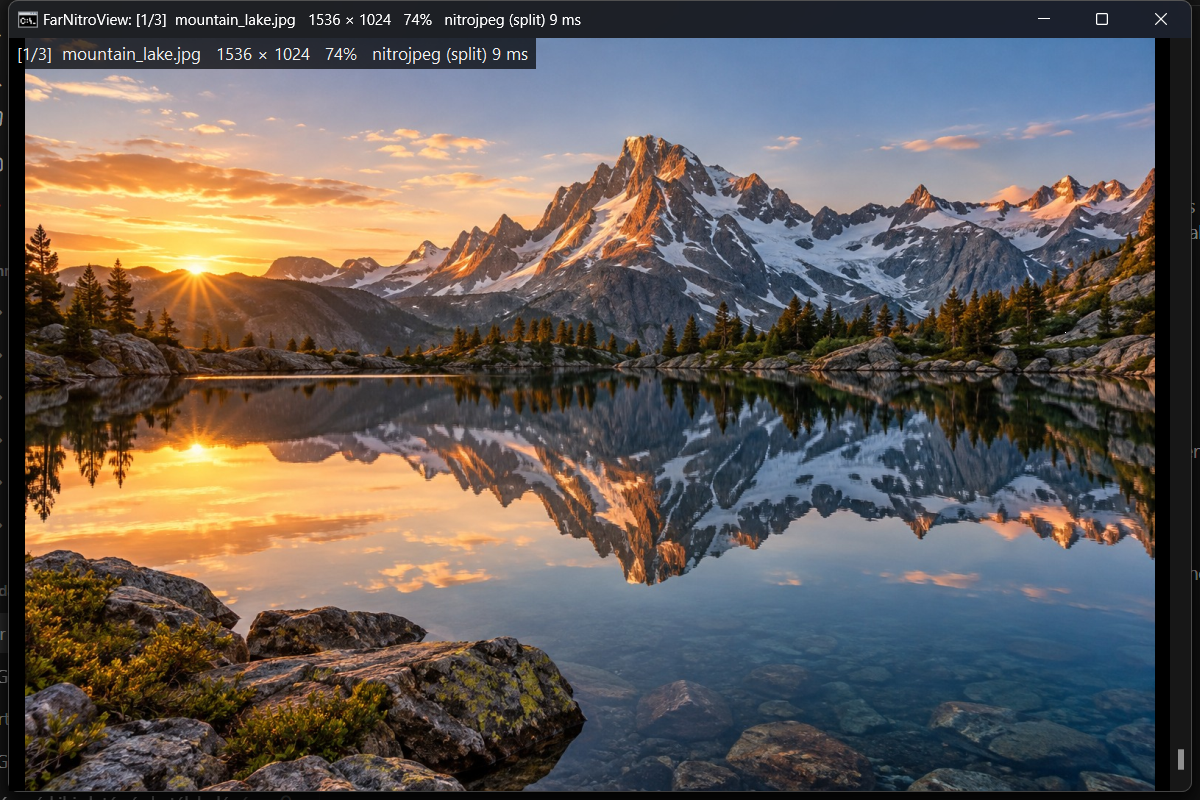
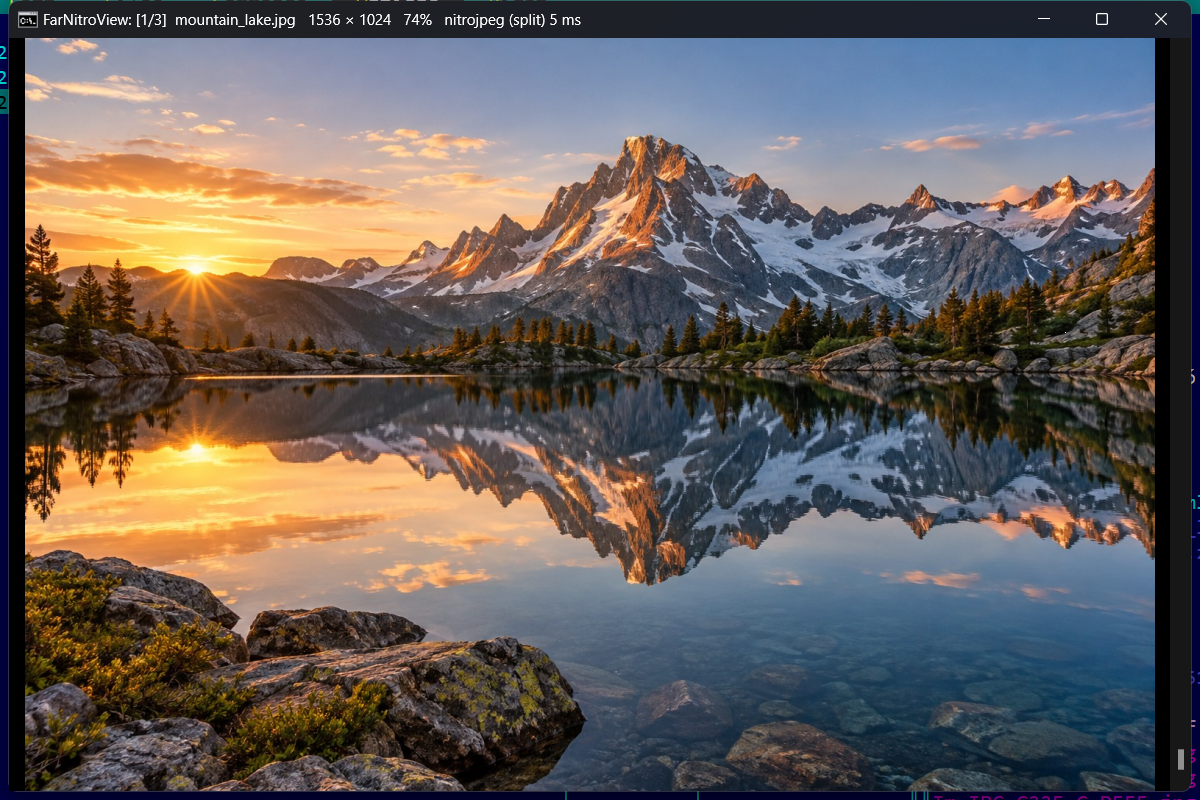
Information line over the image off by default
The console window title already shows file, position, size, zoom and
decoder. The setting is stored under a new name, so a saved 'on' from
1.0.0 does not keep it; I still toggles it.

Changed region(s): [[0.0, 0.0, 1.0, 1.0]]

diff --git a/src/config.cpp b/src/config.cpp
@@ -17,7 +17,7 @@ void Config::Load() {
     view = s.Get(0, L"View", view);
     fullscreen = s.Get(0, L"Fullscreen", fullscreen);
     smooth = s.Get(0, L"Smooth", smooth);
-    showInfo = s.Get(0, L"ShowInfo", showInfo);
+    showInfo = s.Get(0, L"ShowInfoLine", showInfo);
     autosize = s.Get(0, L"Autosize", autosize);
     enlarge = s.Get(0, L"Enlarge", enlarge);
     keepPosition = s.Get(0, L"KeepPosition", keepPosition);
@@ -34,7 +34,7 @@ void Config::Save() const {
     s.Set(0, L"View", view);
     s.Set(0, L"Fullscreen", fullscreen);
     s.Set(0, L"Smooth", smooth);
-    s.Set(0, L"ShowInfo", showInfo);
+    s.Set(0, L"ShowInfoLine", showInfo);
     s.Set(0, L"Autosize", autosize);
     s.Set(0, L"Enlarge", enlarge);
     s.Set(0, L"KeepPosition", keepPosition);

diff --git a/src/farglobals.h b/src/farglobals.h
@@ -62,7 +62,7 @@ struct Config {
     bool view = true;           // F3
     bool fullscreen = false;    // start in full screen
     bool smooth = true;         // smooth scaling
-    bool showInfo = true;       // the information line
+    bool showInfo = false;      // the information line over the image (the title shows it anyway)
     bool autosize = true;       // fit large images on opening
     bool enlarge = false;       // ... and small ones too
     bool keepPosition = false;  // keep the zoom and position when going to another image

diff --git a/README.md b/README.md
@@ -94,7 +94,7 @@ The key map follows PictureView's last build (2018.12.11).
 | <kbd>F9</kbd> / <kbd>F11</kbd> | mirror left–right / upside down |
 | <kbd>F12</kbd> | undo rotations and mirrors |
 | <kbd>F5</kbd> | reload |
-| <kbd>I</kbd> | information line on / off |
+| <kbd>I</kbd> | information line over the image on / off (off by default — the window title shows file, size, zoom and decoder) |
 | <kbd>F1</kbd> / <kbd>F2</kbd> | help / settings |
 
 ## Settings
